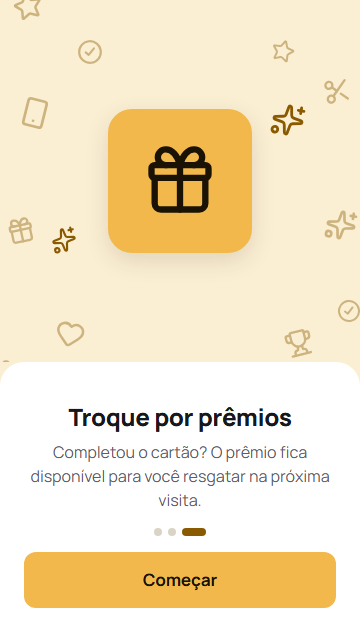
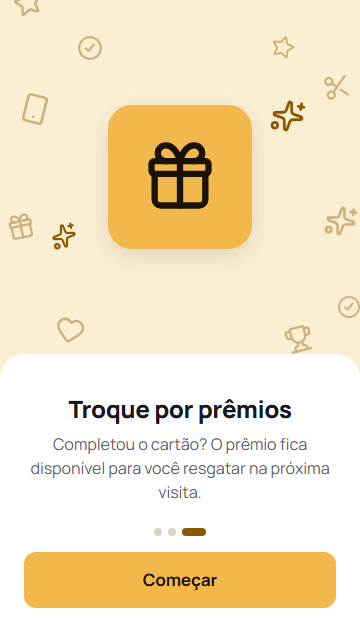
fix(web): fit the welcome sheet to its content (T09)
Dots sit right above the button and the white sheet has no empty space between text, dots and button. D-018.

diff --git a/apps/web/src/pages/WelcomePage.tsx b/apps/web/src/pages/WelcomePage.tsx
@@ -29,7 +29,7 @@ export function WelcomePage() {
 
   return (
     <section data-screen="welcome" className="relative flex h-full flex-col bg-accent">
-      <div className="min-h-40 shrink basis-[508px]">
+      <div className="min-h-40 flex-1">
         <OnboardingArt slide={step as 1 | 2 | 3} />
       </div>
 
@@ -41,13 +41,13 @@ export function WelcomePage() {
         </div>
       )}
 
-      <div className="flex shrink-0 grow flex-col items-center justify-between gap-4 rounded-t-panel bg-card px-6 pt-10 pb-8">
+      <div className="flex shrink-0 flex-col items-center rounded-t-panel bg-card px-6 pt-10 pb-8">
         <div className="flex flex-col gap-2 text-center">
           <h1 className="text-title-2 tracking-[-0.3px] text-foreground">{slide.title}</h1>
           <p className="text-body text-muted-foreground">{slide.body}</p>
         </div>
-        <StepDots step={step} total={TOTAL} />
-        <div className="w-full">
+        <StepDots step={step} total={TOTAL} className="mt-6" />
+        <div className="mt-4 w-full">
           <Button onClick={isLast ? finish : next}>
             {isLast ? messages.welcome.start : messages.welcome.next}
           </Button>

diff --git a/docs/DECISIONS.md b/docs/DECISIONS.md
@@ -21,3 +21,4 @@ Short log of choices that `CLAUDE.md` left open or that changed. One row per dec
 | D-015 | 2026-10-30 | Two shades from the design files are tokens: `--soft` `#D9D4C6` (inactive step dot) and `--input-disabled` `#C9C4B6` (disabled radio border). Also `shadow-card-stack` (the soft shadow of stacked cards from `CLAUDE.md`). | Components may not hold raw hex values. |
 | D-016 | 2026-10-30 | Phase A design system (T03 to T07) was built and delivered as a single batch, at Tiago's request, to speed up. The rule of one task at a time stays for the other phases unless Tiago says otherwise. | Tiago's decision. |
 | D-017 | 2026-10-30 | The welcome illustration (`OnboardingArt`) uses the soft shadow of the design (`shadow-art`, token in `index.css`), even though `CLAUDE.md` prefers borders to shadows. Its elements are anchored to the center of the art area, not to the top-left, so it fits 360 x 640 screens. On 390 x 844 it is identical to the design. | The design file specifies the shadow. Anchoring avoids clipping on short screens. |
+| D-018 | 2026-10-31 | On the welcome screens the white sheet is as tall as its content (24 px between text and dots, 16 px between dots and button, 32 px below the button) and the illustration takes the remaining height. The design has a fixed 336 px sheet with the three parts spread out. | Tiago's request: no empty space between text, dots and button. |

diff --git a/docs/TASK_PLAN.md b/docs/TASK_PLAN.md
@@ -85,3 +85,5 @@ One line per status change, newest on top. Format: `YYYY-MM-DD  Txx  status  not
 2026-10-30  T08  Done  Approved by Tiago; merged into main.
 2026-10-30  T09  In progress  Started on branch task/T09-welcome.
 2026-10-30  T09  In review  Welcome screens 01.1 to 01.3 and OnboardingArt ready; waiting for Tiago.
+2026-10-31  T09  Adjusting  Tiago asked: dots right above the button, white sheet sized to its content.
+2026-10-31  T09  In review  Adjusted: sheet fits its content, dots above the button; waiting for Tiago.
